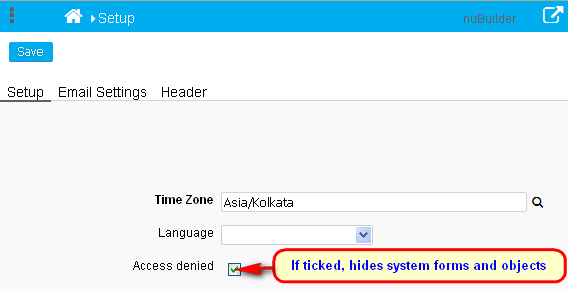
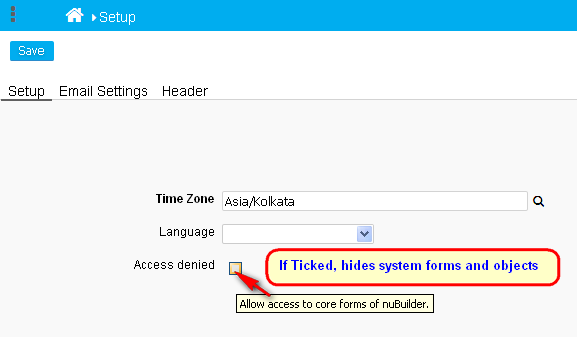
@smalos: Added function nuSetToolTip() https://github.com/smalos/nubuilder4-Dev/commit/bb2d0ce505de5999776aefeb6a82f314608d44dc#diff-6e2091ca3c674834218648c81b659c5c85bd49485e0d389daca61cd9a4b41d44

diff --git a/nub4fixes/nucommon.js b/nub4fixes/nucommon.js
@@ -1630,6 +1630,21 @@ function nuIsIframe(){
 
 }
 
+function nuSetToolTip(i, message, labelHover) {
+
+    // Show tooltip on object hover
+    $("#" + i).hover(function() {
+        $(this).attr("title", message);
+    });
+
+    if (labelHover === true) {
+        // Show tooltip on label hover
+        $("#label_" + i).hover(function() {
+            $(this).attr("title", message);
+        });
+    }
+}
+
 // After clicking a nuActionButton (Save, Delete, Print, Clone etc.), disable it for 1.5 secs to prevent a user from double-clicking it.
 
 function preventButtonDblClick() {

diff --git a/README.md b/README.md
@@ -82,6 +82,8 @@ nuBuilder is a enterprise level application builder but with no limitations on d
 * [nuBuilder-Forte-User-Guide 1](https://sourceforge.net/projects/nubuilder/files/nuBuilderForte_UserGuide_OLD.pdf/download)
 * [nuBuilder-Forte-User-Guide 2](https://sourceforge.net/projects/nubuilder/files/nuBuilderForte_UserGuide.pdf/download)
 * [nuBuilder-Forte-Wiki-Documentation](https://wiki.nubuilder.net/nubuilderforte/index.php/Main_Page)
+* [nuBuilder PHP Functions Lookup Reference](https://wiki.nubuilder.net/nubuilderforte/index.php/PHP)
+* [nuBuilder Javascript Functions Lookup Reference](https://wiki.nubuilder.net/nubuilderforte/index.php/Javascript#nuForm)
 * [Javascript character Key Codes](https://www.cambiaresearch.com/articles/15/javascript-char-codes-key-codes) - case insensitive
 * [Javascript Key decoder online](https://github.com/wesbos/keycodes) | [Live](https://keycode.info/)
 * [JS Snippets](https://1loc.dev/)

diff --git a/nub4fixes/docs/NuBuilder4 ERD.md b/nub4fixes/docs/NuBuilder4 ERD.md
@@ -10,7 +10,7 @@
 ![Settings ERD](./images/Nubuilder4_Settings_ERD.png)
 
 ## set_denied to hide system forms and objects
-***Setup => set_denied*** can be ticked to hide all NuBuilder's forms and objects. Useful for developers.
+***Setup => set_denied*** can be ticked to hide all NuBuilder's forms and objects. Useful for developers. Needs updated [nucommon.js](https://github.com/apmuthu/nubuilder4/commit/50deab677e2268cc0a970300297f5211a2a1fab9#diff-3be85bba7d935c8a483a53d3409983f33c617c6249f3983239015abb6dc73719)
 ![set_denied Setting](./images/set_denied_screenshot.png)
 
 Existing users can backport this feature with:
